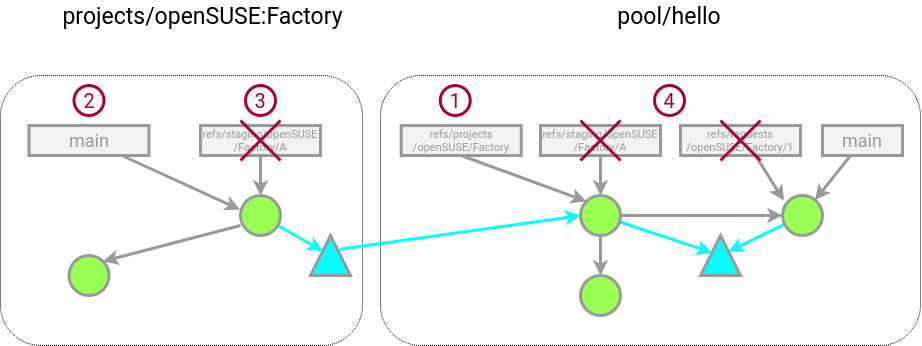
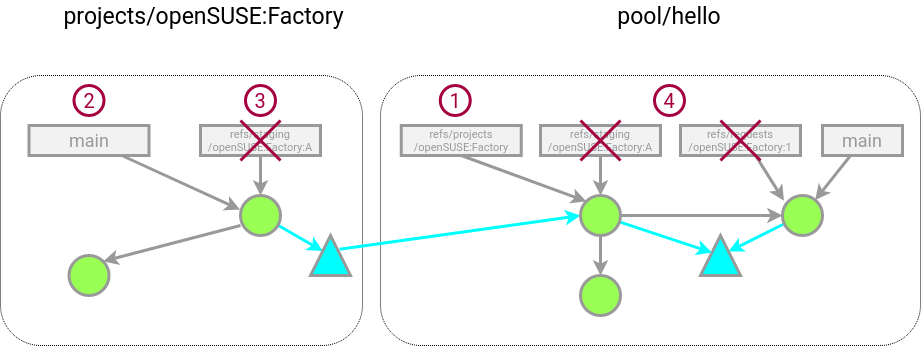
Update with notes from Adam

diff --git a/git-native-packaging.md b/git-native-packaging.md
@@ -534,25 +534,27 @@ pool hierarchy requires support from the git hosting platform.
 Assuming that there can be many projects with a complex naming
 scheme like OBS, we can't just use a `factory` branch. Instead we
 translate the project naming into something like
-`refs/projects/openSUSE/Factory` (git refs can't have colons).
+`refs/projects/openSUSE:Factory` (Note git refs can't have colon, so
+there needs to be some quoting or transliteration, eg to an unicode
+character).
 Submitting the `hello` package into `openSUSE:Factory` could
 therefore work like the following:
 
 ![workflow2](workflow2.png)
 
 1. Create a pull request inside the package repo by copying the main ref into
-   e.g. `refs/requests/openSUSE/Factory/$number`. This needs support from
+   e.g. `refs/requests/openSUSE:Factory/$number`. This needs support from
    the git hosting platform.
 2. the staging machinery notices the request and assign a staging
    project. The machinery creates an automatic, transient `factory`
-   branch. In this case `refs/staging/openSUSE/Factory/A`. This
+   branch. In this case `refs/staging/openSUSE:Factory:A`. This
    commit could be signed to record reviews. Signing changes the commit hash
    but that wouldn't matter in this case as the commit is automatically created
    anyway.
 3. To actually build all packages assigned to a particular staging
    project, the machinery also creates a transient branch of the
    target project. In this case in
-   `refs/staging/openSUSE/Factory/A` pointing the package submodule
+   `refs/staging/openSUSE:Factory:A` pointing the package submodule
    to the newly created commit in the package.
 
 
@@ -562,7 +564,7 @@ into the target:
 ![workflow3](workflow3.png)
 
 1. Create or update the "factory" branch ie
-   `refs/projects/openSUSE/Factory` in the package
+   `refs/projects/openSUSE:Factory` in the package
 2. Make `main` branch of the project point to the staging commit.
    If there are multiple staging projects to check in, a merge commit could be
    created. In that case the trees would have to be merged. That's rather
@@ -572,12 +574,18 @@ into the target:
    main branch
 4. Clean up the transient refs in the package
 
-
 The goal is the target project pointing to the "factory" branch (ie
-`refs/projects/openSUSE/Factory`) in the package:
+`refs/projects/openSUSE:Factory`) in the package:
 
 ![workflow4](workflow4.png)
 
+## Further considerations
+
+It may make sense to include the package name in the project
+references. Ie something like
+`refs/projects/openSUSE:Factory/hello`. That would allow to keep
+history of the package in the same repo even if the package got
+renamed over time.
 
 # Addendum
 
